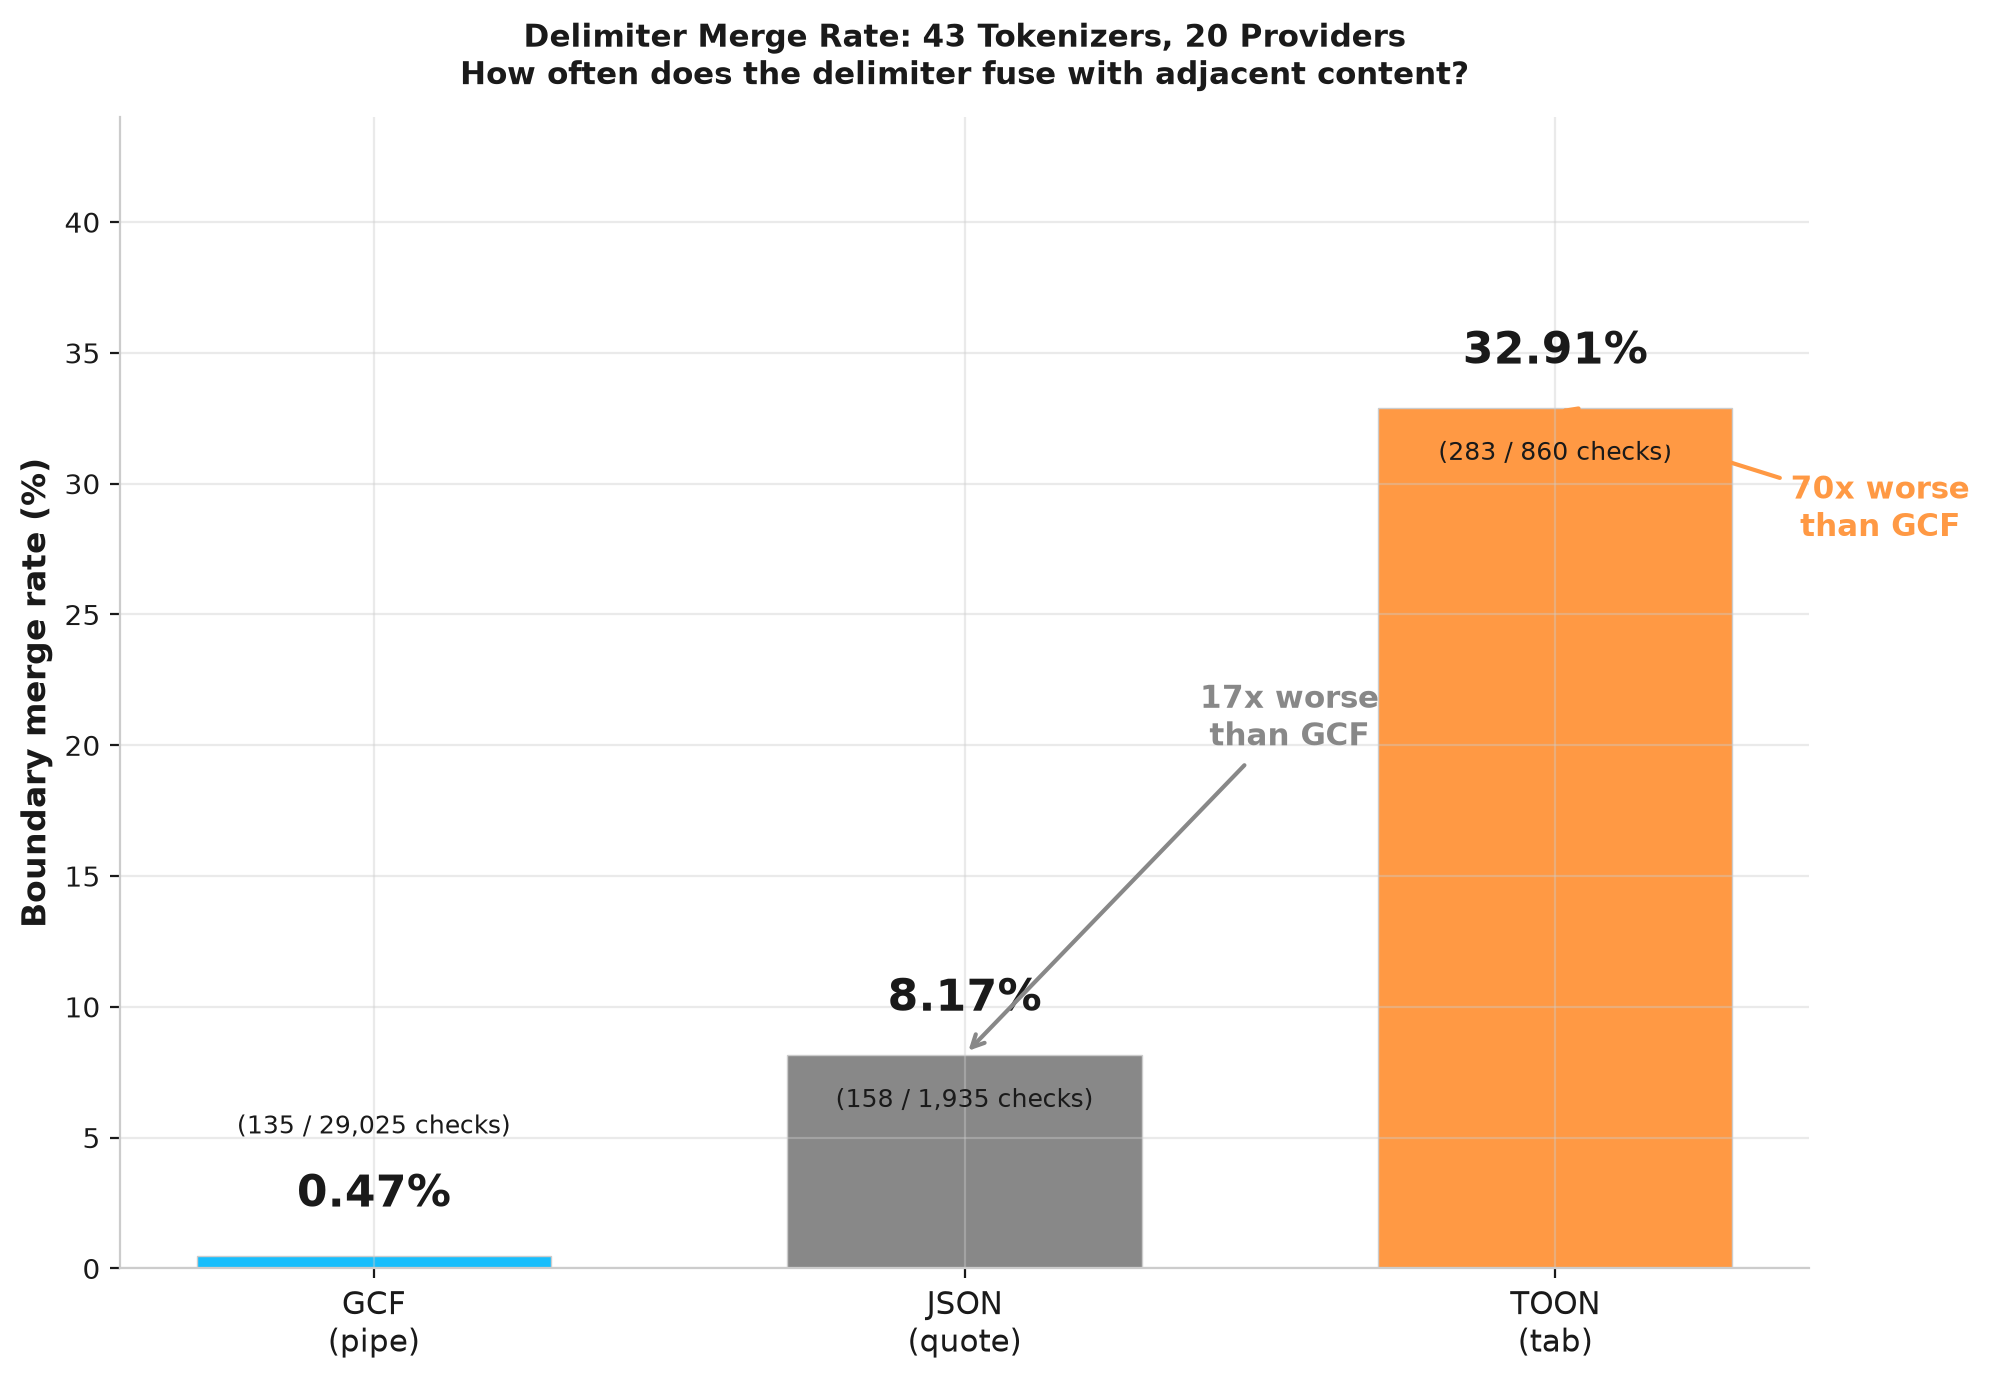
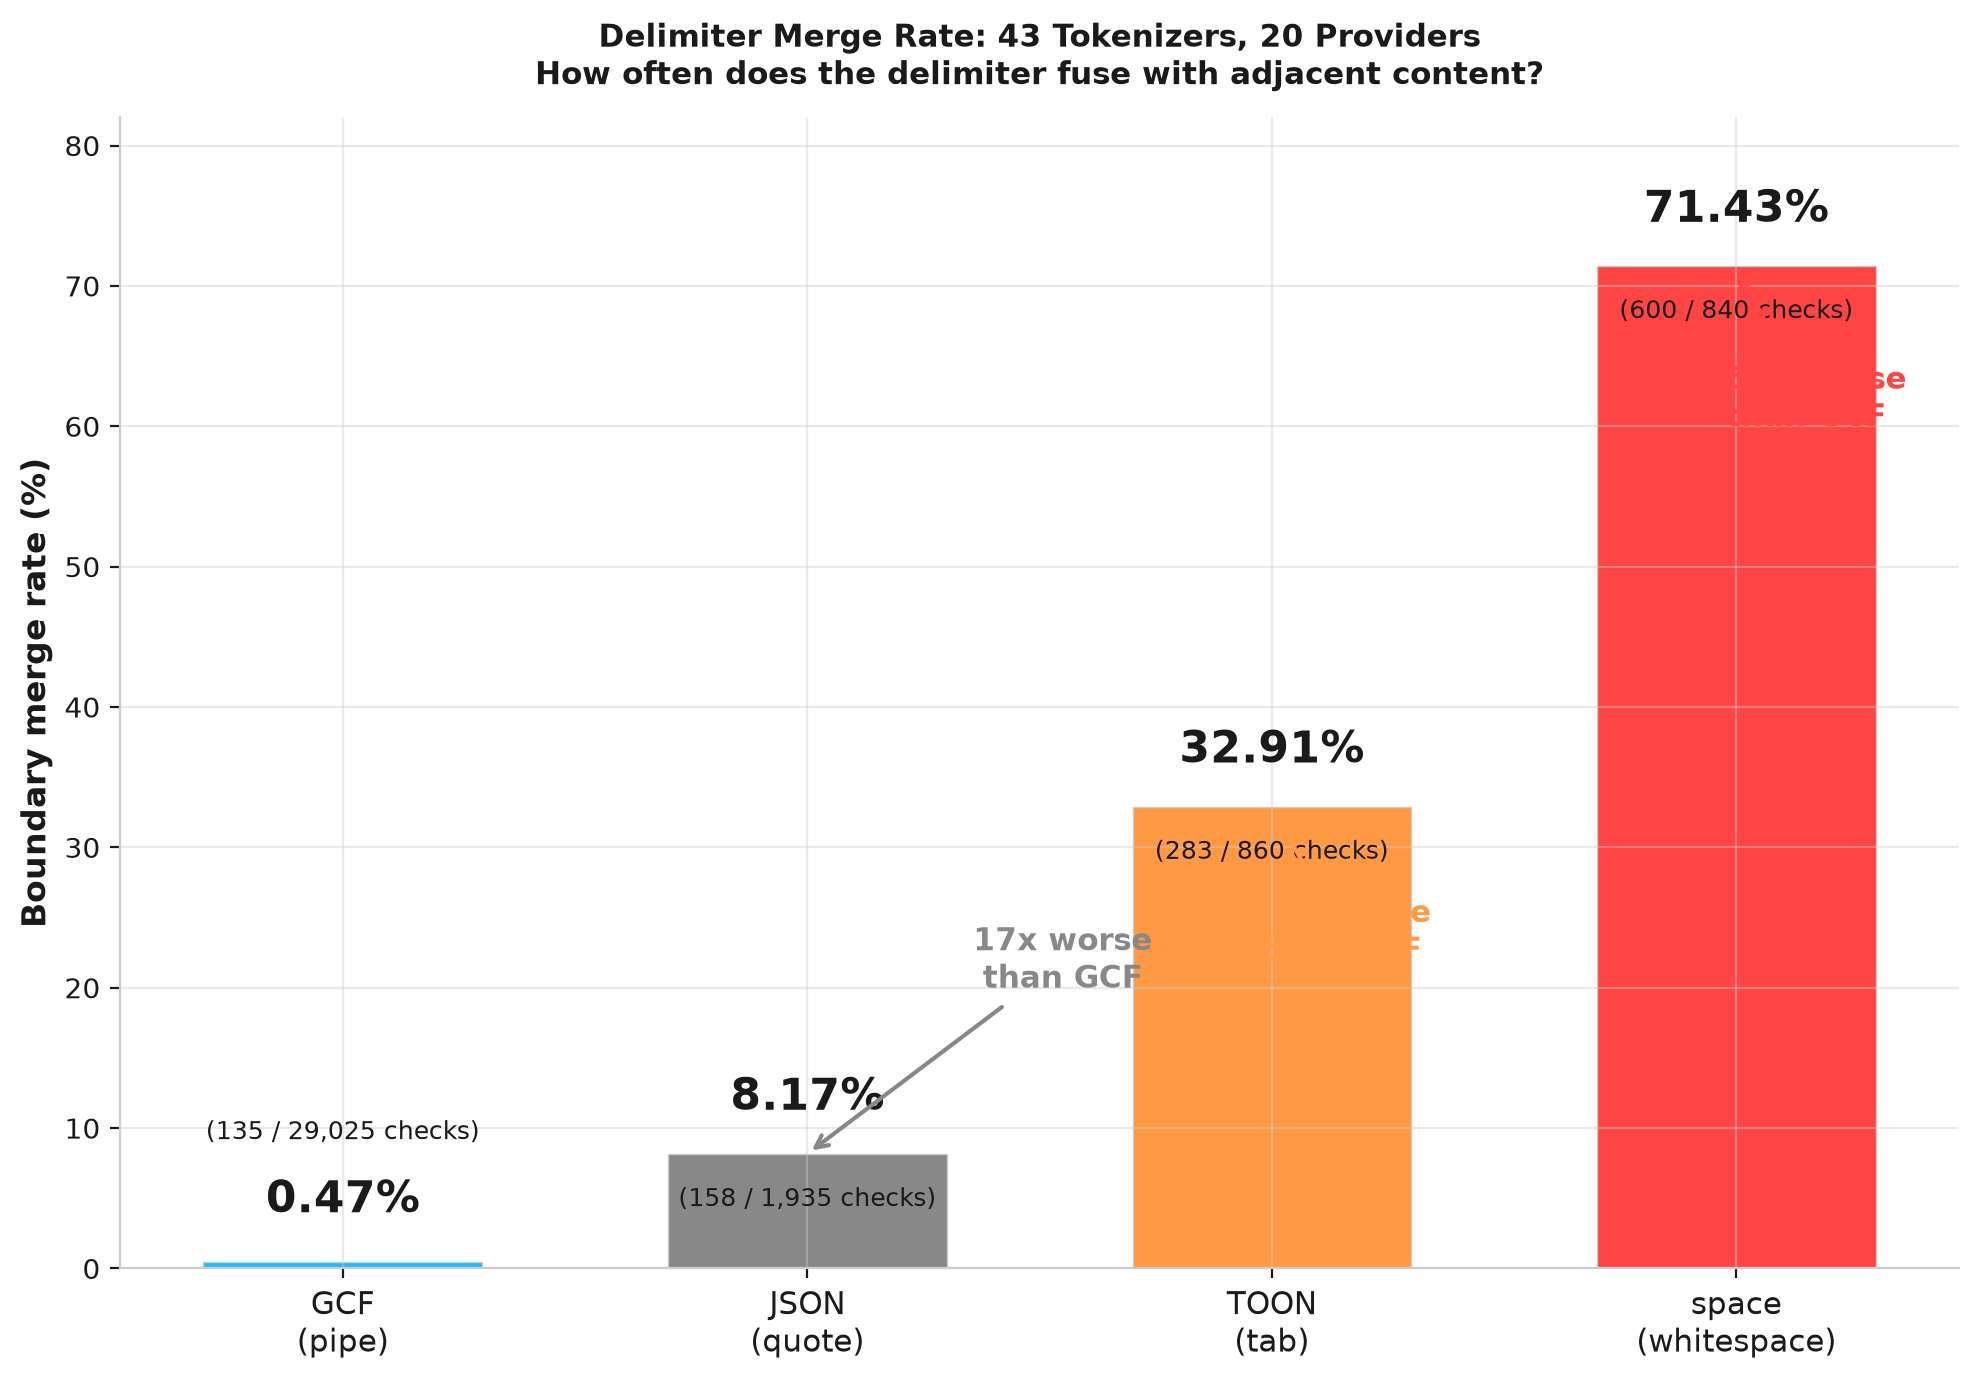
docs: add space (whitespace) merge rate to the site data and chart
Space merges into adjacent content ~71% across the 43-tokenizer study, the
worst of any structural delimiter measured (pipe 0.47%, quote 8.17%, tab 32.91%).
Adds the row to the merge-rate tables in bpe-and-attention and tokenizer-analysis,
the summary bullets, the whitepaper chart alt-text, and regenerates the
delimiter-merge-rates chart (dark+light) with the space bar. This is why GCF
separates fields with the pipe, not whitespace.

diff --git a/docs/guide/tokenizer-analysis.md b/docs/guide/tokenizer-analysis.md
@@ -10,6 +10,7 @@ Every LLM uses a different tokenizer. A format designed for one tokenizer might 
 - **GCF boundary merge rate:** 0.47% (pipe never merges with field names)
 - **JSON boundary merge rate:** 8.17% (quote fuses with field names on 30% of tokenizers)
 - **TOON boundary merge rate:** 32.91% (tab merges on 100% of GPT-4o tokens tested)
+- **Whitespace boundary merge rate:** 71% (a plain space, the boundary of space-delimited formats, is the most-merged structural character of all)
 - **GCF grammar isolation:** 99.5% (@ and < are 100%, | is 99.2%)
 - **JSON grammar fusion:** 92.5% of quote tokens are multi-grammar fusions on 43/43 tokenizers
 - **Controlled proof:** merge barriers produce 3x better structured data comprehension, 3-5x better code comprehension, zero NL cost
@@ -246,11 +247,12 @@ TOON, the primary competing token-efficient format, uses tab characters as colum
 
 | Format | Delimiter merge rate | Checks |
 |--------|---------------------|--------|
+| space (whitespace) | **71%** | 600/840 |
 | TOON (tab) | **32.91%** | 283/860 |
 | JSON (quote) | 8.17% | 158/1,935 |
 | GCF (pipe) | **0.47%** | 135/29,025 |
 
-GPT-4o has a **100% tab merge rate**: every single word tested merges with the preceding tab. GPT-4 cl100k merges 95%. These are the two most widely deployed tokenizers in the world. See [GCF vs TOON](/guide/vs-toon) for the full comparison.
+GPT-4o has a **100% tab merge rate**: every single word tested merges with the preceding tab. GPT-4 cl100k merges 95%. These are the two most widely deployed tokenizers in the world. A plain space is worse still, 71% across the 43 tokenizers and the most-merged boundary measured, because leading-space tokens are the dominant unit BPE learns; this is why GCF separates fields with the pipe rather than whitespace. See [GCF vs TOON](/guide/vs-toon) for the full comparison.
 
 ### Why merging matters for comprehension
 

diff --git a/docs/guide/bpe-and-attention.md b/docs/guide/bpe-and-attention.md
@@ -64,8 +64,9 @@ To measure how universal this is, the tokenizer-attention-coupling study analyze
 | GCF | pipe (`\|`) | **0.47%** |
 | JSON | quote (`"`) | **8.17%** |
 | TOON | tab (`\t`) | **32.91%** |
+| whitespace-delimited | space (` `) | **71%** |
 
-The pipe almost never merges. The quote merges on roughly one in twelve boundaries. The tab (used by TOON, a competing token-efficient format) merges on a third of all boundaries measured, and on GPT-4o's tokenizer, the tab merges on 100% of the words tested. Tab-separated data was so common in tokenizer training corpora (TSV files, log output, terminal formatting) that GPT-4's cl100k vocabulary contains 1,173 distinct tab-plus-letter entries.
+The pipe almost never merges. The quote merges on roughly one in twelve boundaries. The tab (used by TOON, a competing token-efficient format) merges on a third of all boundaries measured, and on GPT-4o's tokenizer, the tab merges on 100% of the words tested. Tab-separated data was so common in tokenizer training corpora (TSV files, log output, terminal formatting) that GPT-4's cl100k vocabulary contains 1,173 distinct tab-plus-letter entries. A plain space, the boundary used by space-delimited formats, is worse still: it merges into adjacent content about 71% of the time, more than double the tab, because leading-space tokens (`▁word`) are the dominant unit BPE learns. It is the most-merged structural boundary of all, which is why GCF does not use whitespace to separate fields.
 
 There is a paradox worth naming: the more of a format a tokenizer saw during training, the more aggressively it merged that format's delimiters, and the more boundaries it hid. "Trained on lots of JSON" is not an advantage for structural comprehension. It is the mechanism that creates the ambiguity. The tokenizer's compression efficiency is the model's structural handicap.
 

diff --git a/docs/whitepaper.md b/docs/whitepaper.md
@@ -54,7 +54,7 @@ Token overhead is the visible problem. The deeper problem is invisible: JSON's g
 
 When GPT-4's tokenizer encounters `"name":"Alice"`, it produces `["name][":"][Alice]["]` (4 tokens). The opening quote has fused with the field name into token #32586. Claude's tokenizer produces `["][name][":"][Alice]["]` (5 tokens). The structural boundary (where the field name starts) is at a different token position depending on which model processes the data.
 
-![Delimiter merge rates: pipe 0.47%, quote 8.17%, tab 32.91%](/charts/delimiter-merge-rates.png)
+![Delimiter merge rates: pipe 0.47%, quote 8.17%, tab 32.91%, space 71%](/charts/delimiter-merge-rates.png)
 
 An exhaustive vocabulary scan across 43 tokenizers from 20 providers reveals the scope of the merging:
 
